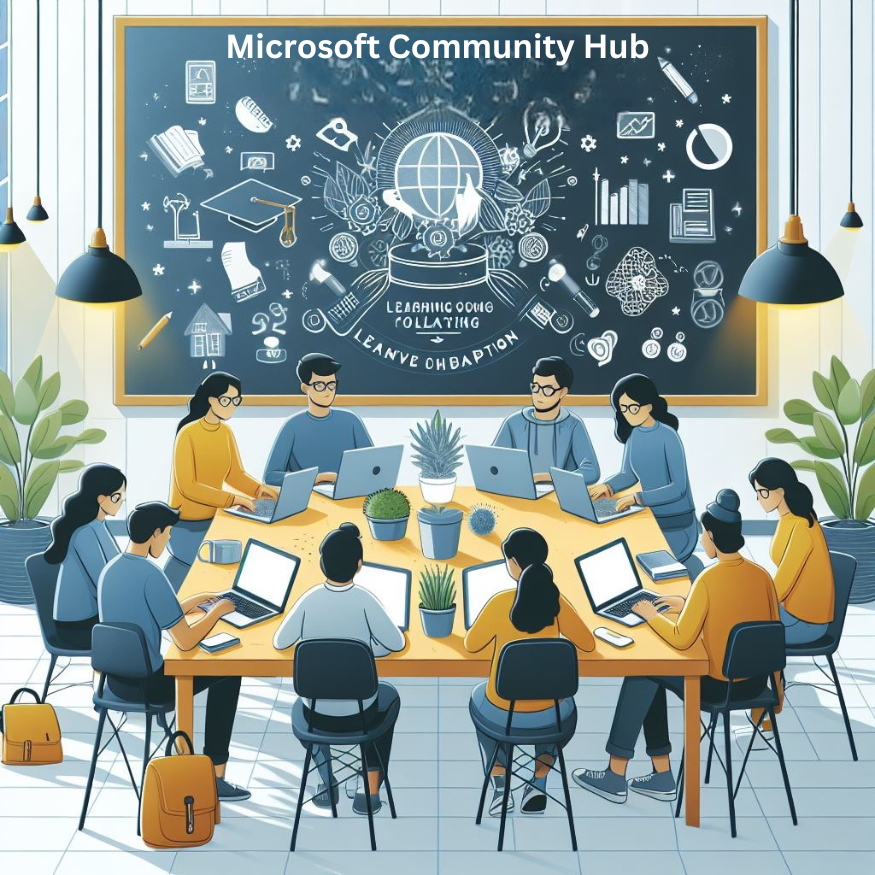
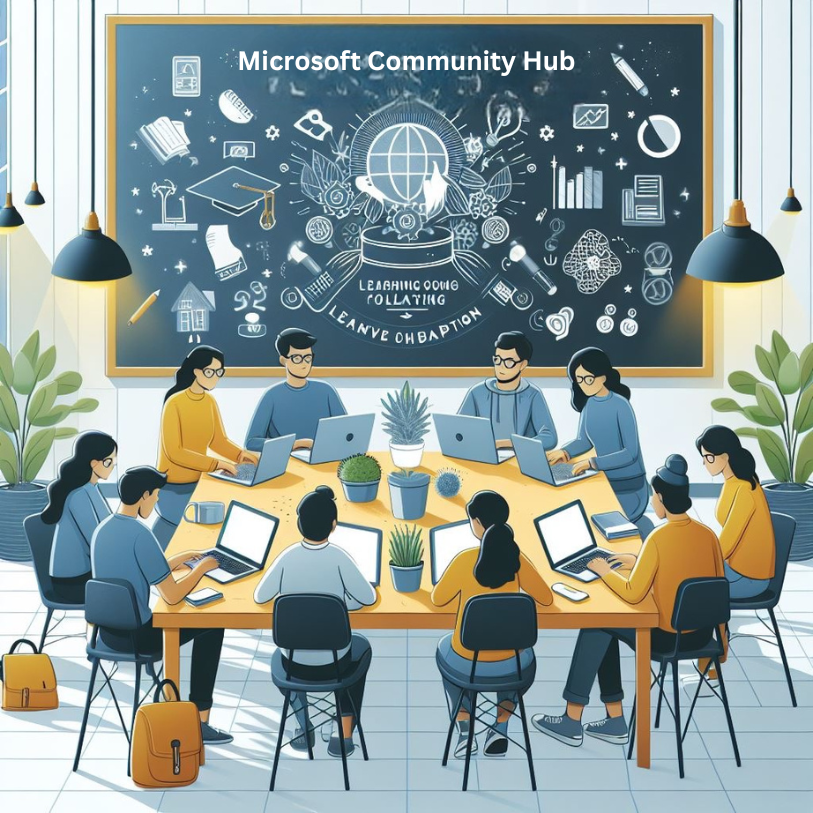
edit size of thumbnail and remove typo

Changed region(s): [[0.246, 0.0308, 0.738, 0.0923], [0.7073, 0.2768, 0.7688, 0.369], [0.8918, 0.123, 0.9225, 0.2153]]

diff --git a/themes/castanet/layouts/partials/jumbotron.html b/themes/castanet/layouts/partials/jumbotron.html
@@ -10,8 +10,8 @@
   
           {{ range $p:= $.Site.Params.authors }}
           <div class="col-lg-2">
-              <img alt="{{ $p.name }}" src="{{ $p.thumbnail | absURL }}" class="img-center rounded-circle img-fluid jumbotron-host">
-              <p class="text-center text-capitalize">{{ $p.name }}</p>
+                <img alt="{{ $p.name }}" src="{{ $p.thumbnail | absURL }}" class="img-center rounded-circle img-fluid jumbotron-host" width="250" height="250">
+                <p class="text-center text-capitalize">{{ $p.name }}</p>
           </div>
           {{ end }}
   
@@ -24,7 +24,7 @@
               <script class="podlove-subscribe-button" src="https://cdn.podlove.org/subscribe-button/javascripts/app.js" data-language="{{ .Site.Params.podlove.subscribe_language }}" data-size="{{ .Site.Params.podlove.subscribe_size }}" data-json-data="podcastData" data-color="{{ .Site.Params.podlove.subscribe_color }}" data-format="{{ .Site.Params.podlove.subscribe_format }}" data-style="{{ .Site.Params.podlove.subscribe_style }}"></script>
               <noscript><a href="{{ .Site.Params.rss_subscribe }}">Subscribe to feed</a></noscript>
           </div>
-          {{ end }}x
+          {{ end }}
       </div>
       <div class = "row">
           {{ if (isset .Site.Params "youtube_subscribe") }}

diff --git a/public/index.html b/public/index.html
@@ -201,15 +201,15 @@ We would like to wish you Merry Christmas and Happy New Year">
   
           
           <div class="col-lg-2">
-              <img alt="" src="http://nickazuredevops.github.io/img/microsoftcommunityhub.png" class="img-center rounded-circle img-fluid jumbotron-host">
-              <p class="text-center text-capitalize"></p>
+                <img alt="" src="http://nickazuredevops.github.io/img/microsoftcommunityhub.png" class="img-center rounded-circle img-fluid jumbotron-host" width="250" height="250">
+                <p class="text-center text-capitalize"></p>
           </div>
           
   
       </div>
   
       <div class = "row">
-          x
+          
       </div>
       <div class = "row">
           
